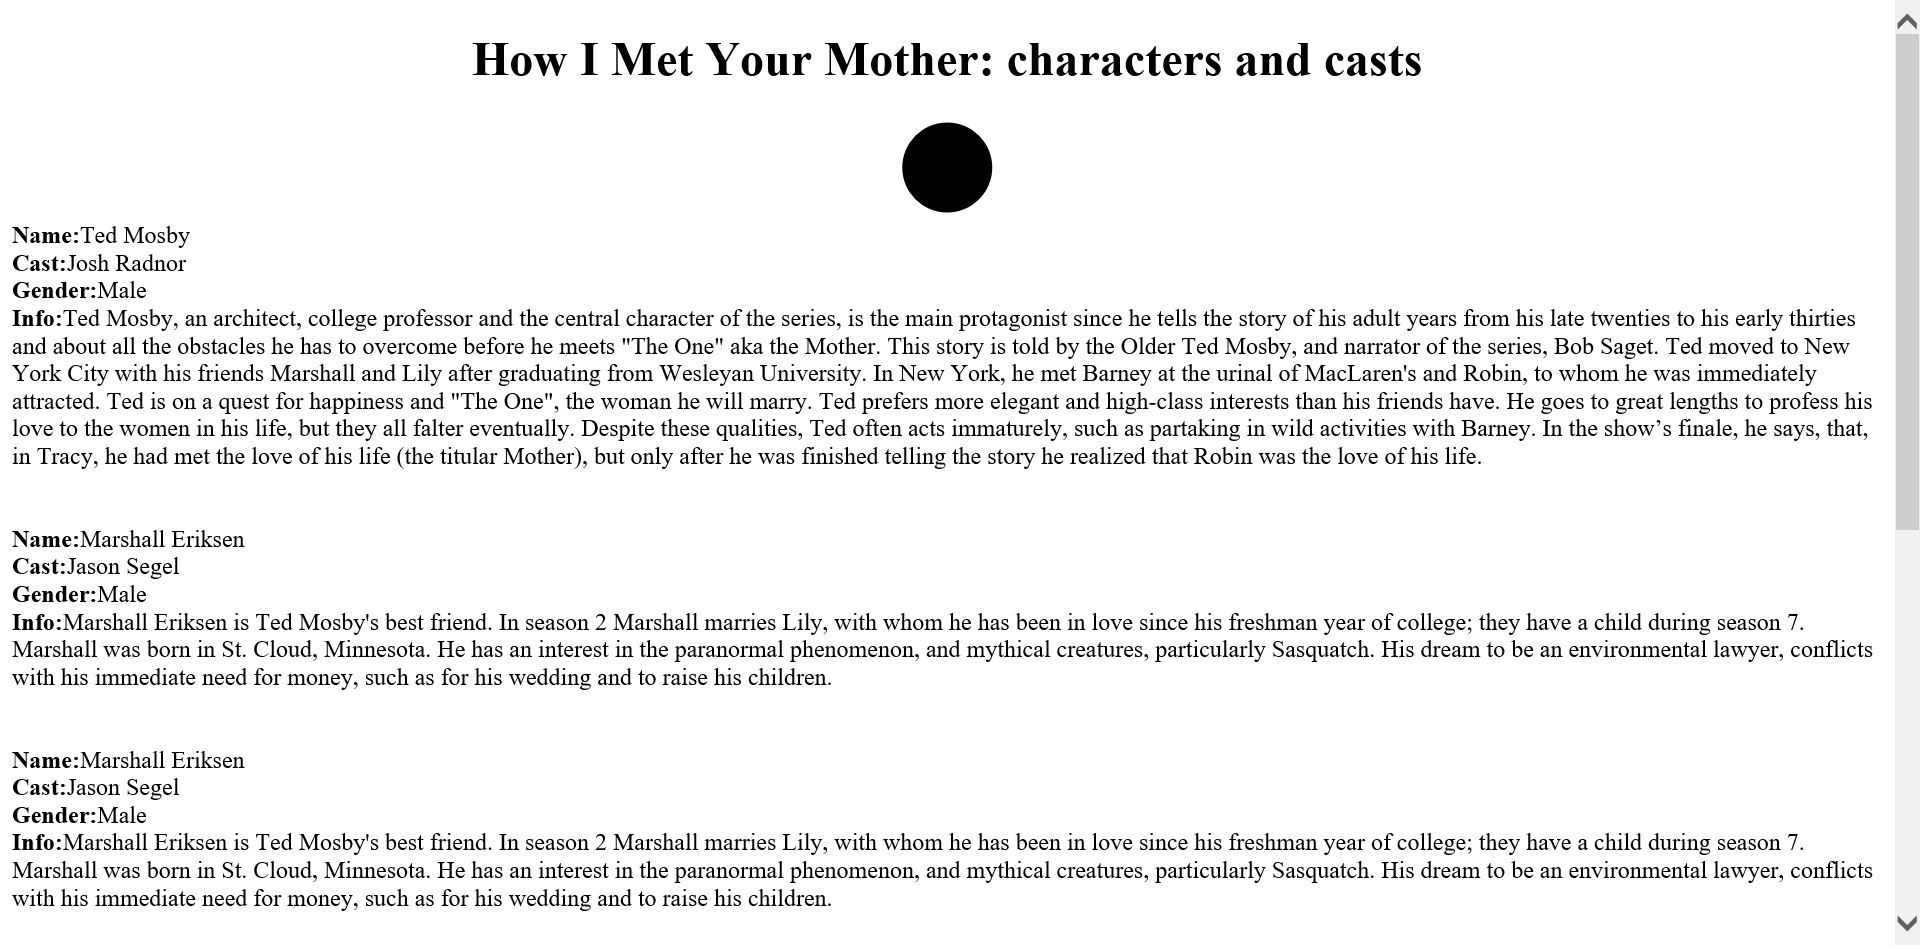
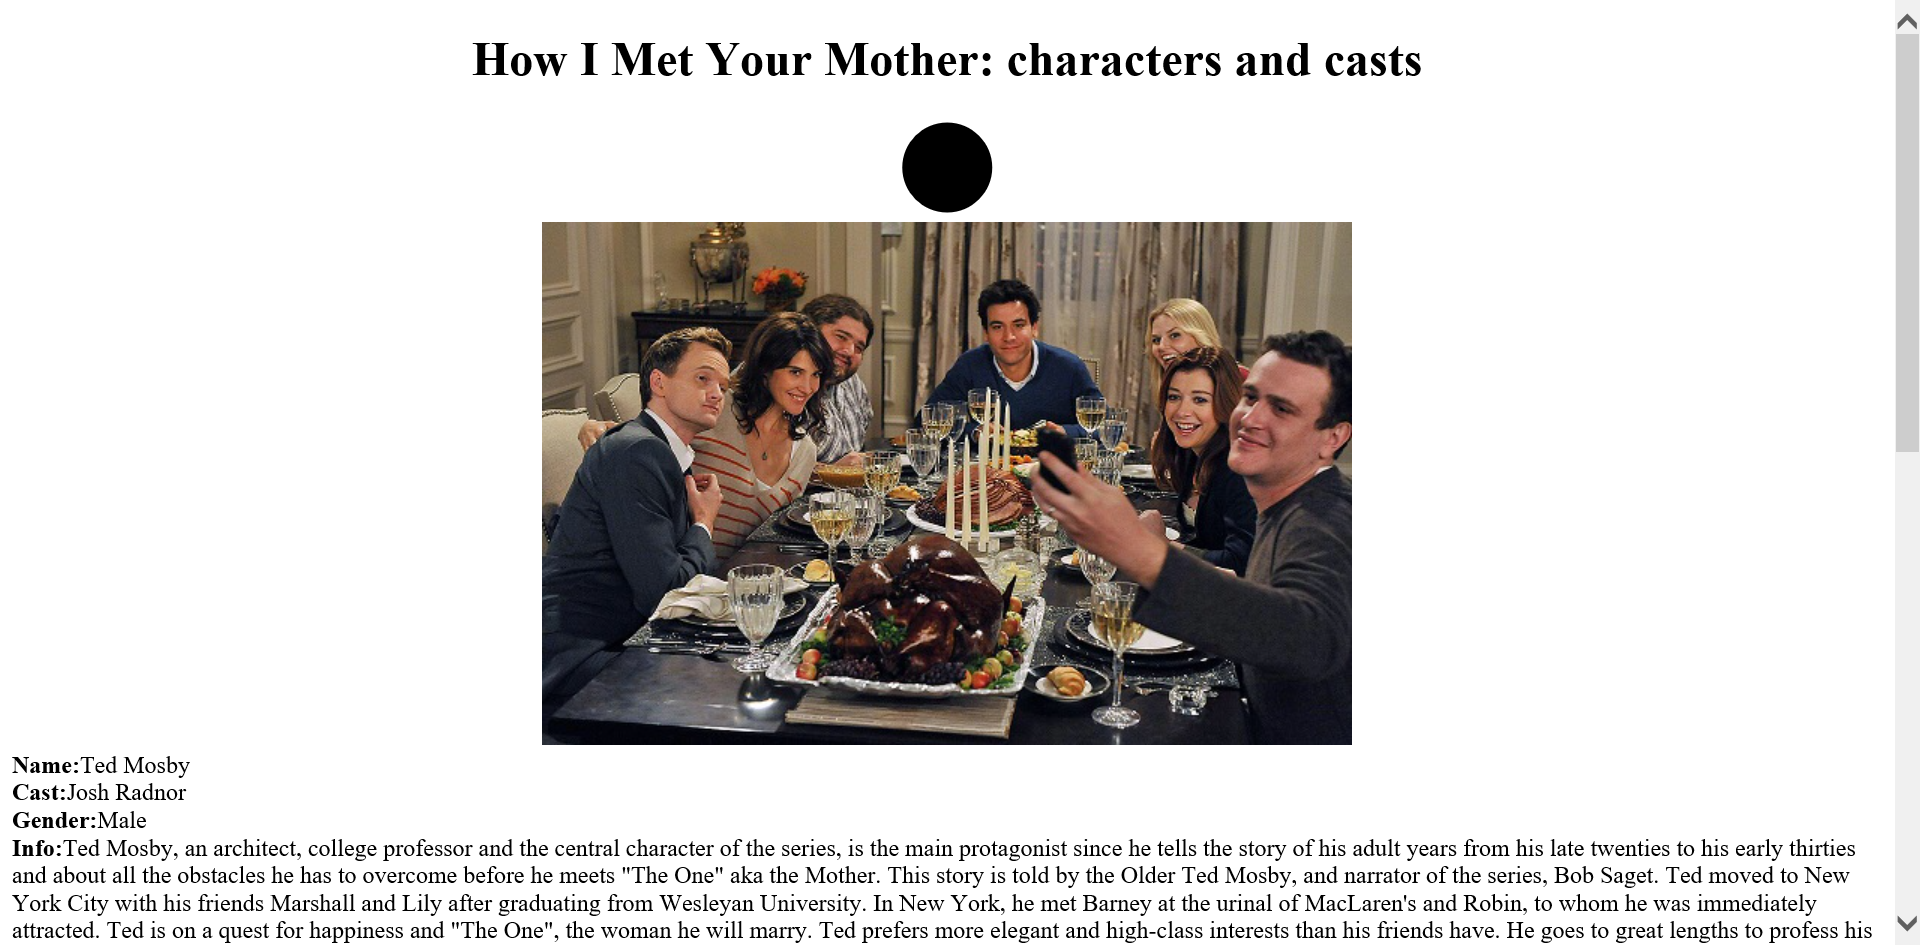
Add jpg

Changed region(s): [[0.0, 0.2148, 0.9688, 0.7979], [0.0, 0.7979, 0.9688, 1.0], [0.9688, 0.4603, 1.0, 0.5831]]

diff --git a/作品/How I Met Your Mother characters and casts.html b/作品/How I Met Your Mother characters and casts.html
@@ -1,0 +1,65 @@
+<!--WebGIS-1：HTML文件代码-->
+<!DOCTYPE HTML>
+<html>
+    <head>
+	    <meta content="IE=11.0000" http-equiv="X-UA-Compatible">
+        <title>How I Met Your Mother: characters and casts</title>	 
+        <meta http-equiv="Content-Type" content="text/html;charset=utf-8">   
+        <meta name="GENERATOR" content="MSHTML 11.00.10570.1001">
+		</head>   
+
+	<body>
+        <center><B><H1>How I Met Your Mother: characters and casts</H1></B>	 
+	    </center>
+	    <center><img height="64" alt="circle" src="How%20I%20Met%20Your%20Mother%20characters%20and%20casts_files/circle.svg"> 
+	    </center>
+			    <center><img src="How%20I%20Met%20Your%20Mother%20characters%20and%20casts_files/all.jpg"> 
+	    </center>
+	</body>
+</html>
+
+<script type="text/javascript">
+    try{ //Internet Explorer
+	var xmlDoc = new ActiveXObject("Microsoft.XMLDOM")
+	;}
+	catch(e){
+	try{ //Firefox, Mozilla, Opera, etc.
+	xmlDoc = document.implementation.createDocument("","",null)
+	;}
+	catch(e) {alert(e.message)}
+	}
+	
+	try{
+	xmlDoc.async = false;
+	xmlDoc.load("characters.xml")
+	;}
+	catch(e) {alert(e.message)}
+	
+	try{
+	document.write("<table width='400'>");
+	var x = xmlDoc.getElementsByTagName("char");
+	for (i = 0;i < x.length;i++){	  
+	var name = "Name:"; 
+	name = name.bold( );
+	document.write(name + x[i].getElementsByTagName("Name")[0].childNodes[0].nodeValue);
+	document.write("<br>");
+	
+	var cast = "Cast:"; 
+	cast = cast.bold( );
+	document.write(cast + x[i].getElementsByTagName("Cast")[0].childNodes[0].nodeValue);
+	document.write("<br>");
+	
+	var gender = "Gender:"; 
+	gender = gender.bold( );
+	document.write(gender + x[i].getElementsByTagName("Gender")[0].childNodes[0].nodeValue);
+	document.write("<br>");
+	
+	var info = "Info:"; 
+	info = info.bold( );
+	document.write(info + x[i].getElementsByTagName("Info")[0].childNodes[0].nodeValue);
+    document.write("<br><br><br>")
+	;}
+	document.write("</table>")
+	;}
+	catch(e) {alert(e.message)}
+</script>
